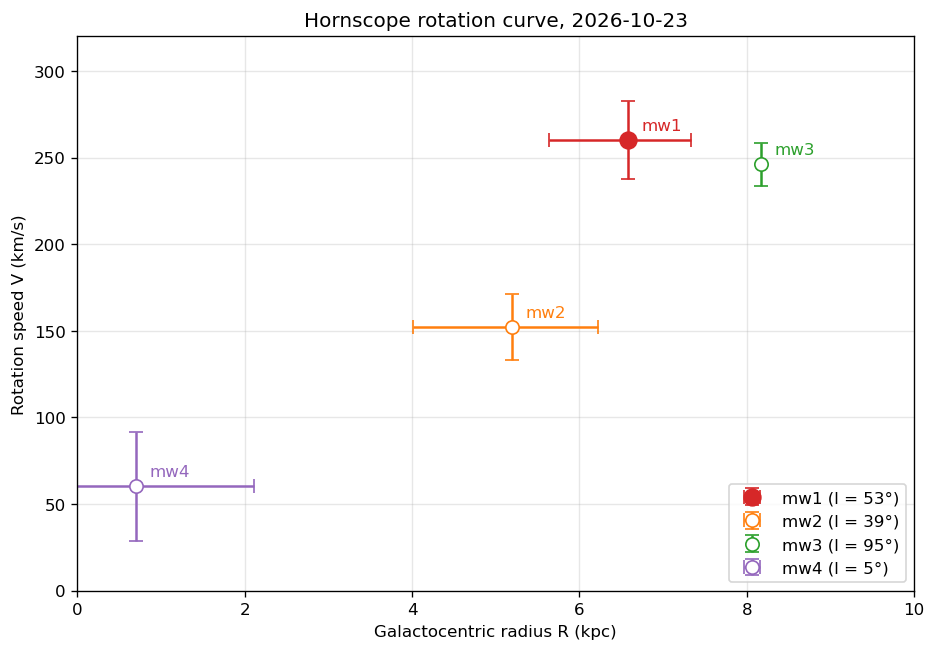
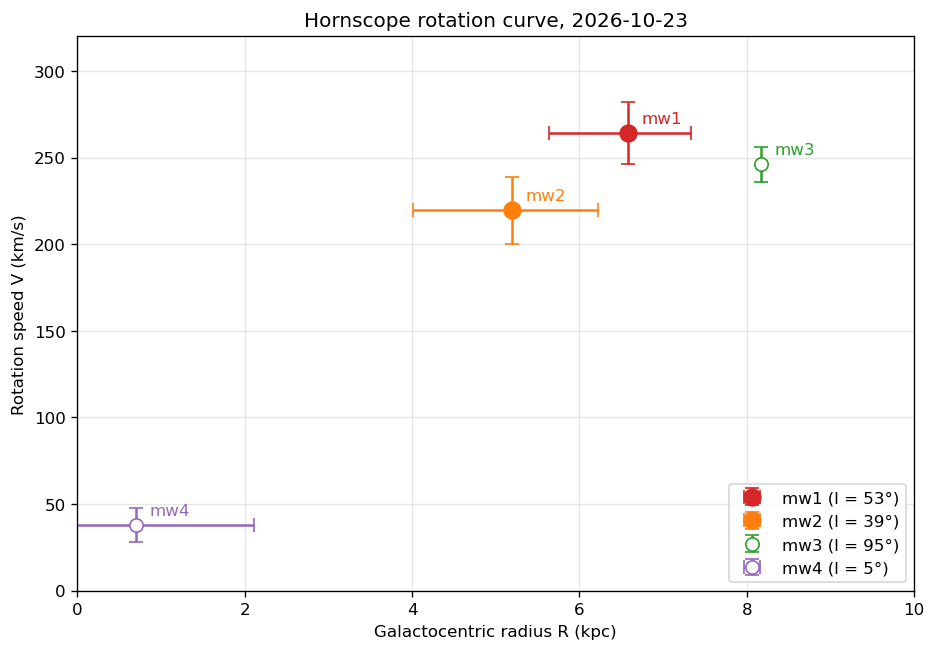
Update S/N and rotation-curve results with corrected noise estimate
Measure noise in a clean band region with a robust estimator. mw2's
tail now reaches the DC-spike gap, giving a usable rotation-curve point
(V = 210-229 km/s at R = 5.2 kpc); mw1 tightens to 256-272 km/s. Add
the per-channel vs smoothed S/N comparison plot.

diff --git a/analysis/README.md b/analysis/README.md
@@ -3,8 +3,9 @@
 | File | What it shows |
 |---|---|
 | `hi_profiles_mw1-4.png` | HI profiles of mw1–mw4 against ground1, in velocity, with a linear baseline removed |
-| `rotation_curve.png` | Tangent-point rotation speeds from mw1–mw4 (filled = valid, hollow = method assumptions not met) |
-| `rotation_curve_mw1_profile.png` | mw1 profile with the tangent-velocity range marked, next to the rotation-curve point |
+| `rotation_curve.png` | Tangent-point rotation speeds from mw1–mw4 (filled = usable, hollow = method assumptions not met) |
+| `snr_comparison_mw1-4.png` | Per-channel vs smoothed S/N for mw1–mw4 |
+| `rotation_curve_mw1_profile.png` | mw1 profile with the tangent-velocity range (inside the DC-spike gap) marked |
 | `expected_HI_profiles.png` | LAB-survey profiles simulated with Virgo for a 20° beam at l = 30°, 80° and 140° |
 | `ground_cal-cold.*` | Early test plot (ground vs cold sky), not used in the results |
 
@@ -12,14 +13,16 @@
 
 - Profiles: target ÷ ground reference, linear baseline fitted at 1419.4–1419.9 and 1420.75–1420.95 MHz, median filter (9 channels) and boxcar smoothing (25 channels). The DC spike (1420.0 ± 0.04 MHz) is masked.
 - Velocities are corrected to the LSR (barycentric correction plus solar motion from Schönrich et al. 2010).
-- Tangent-point method: R = R₀ sin l and V = v_max + V₀ sin l, with R₀ = 8.2 kpc and V₀ = 230 km/s. v_max is taken where the profile tail drops below 3σ. For mw1, the edge falls inside the DC-spike gap, giving v_max = 62–88 km/s.
+- Noise (σ) is measured with a median-based (MAD) estimator in the clean region 1419.4–1419.9 MHz. Virgo's own S/N panel understates the signal about 10×, because its noise estimate includes the DC spike.
+- S/N: mw1 ≈ 13, mw2 ≈ 12, mw3 ≈ 10, mw4 ≈ 14 per 1.2 kHz channel; ≈ 17–41 after smoothing to ~7 km/s (smoothing gains are limited by baseline ripple).
+- Tangent-point method: R = R₀ sin l and V = v_max + V₀ sin l, with R₀ = 8.2 kpc and V₀ = 230 km/s. v_max is taken where the smoothed profile tail drops below 3σ. For mw1 and mw2 the tail is still well above 3σ where the DC-spike gap begins, so the edge lies inside the gap: v_max = 71–88 km/s (mw1) and 65–83 km/s (mw2).
 - Error bars: horizontal = ±10° beam half-width in l; vertical = range of v_max plus an estimated ±10 km/s systematic.
 
 ## Results
 
 | | l | R (kpc) | V (km/s) | Valid? |
 |---|---|---|---|---|
-| mw1 | 53.4° | 6.6 | 247–272 | yes |
-| mw2 | 39.3° | 5.2 | 143–161 | no: b = −10°, misses the tangent gas |
+| mw1 | 53.4° | 6.6 | 256–272 | yes |
+| mw2 | 39.3° | 5.2 | 210–229 | yes, with larger uncertainty: centred at b = −10°, but the ±10° beam reaches the plane |
 | mw3 | 94.7° | 8.2 | ≈ 245 | no: l > 90°, no tangent point (the value is essentially V₀) |
-| mw4 | 4.9° | 0.7 | 39–82 | no: Galactic bar region |
+| mw4 | 4.9° | 0.7 | ≈ 38 | no: Galactic bar region |

diff --git a/README.md b/README.md
@@ -10,14 +10,14 @@ On **2026-10-23** we detected Galactic HI in four 5-minute pointings and derived
 
 | Recording | Galactic l, b | HI peak velocity | Notes |
 |---|---|---|---|
-| mw1 | 53°, +0° | +8 km/s, tail to ~+75 | strong (S/N ≈ 20); gives **V ≈ 250 km/s at R ≈ 6.6 kpc** |
-| mw2 | 39°, −10° | +16 km/s | weak (S/N ≈ 5); 10° off the Galactic plane |
-| mw3 | 95°, +3° | −5 km/s, tail to ~−50 | outer Galaxy; negative velocities as expected |
-| mw4 | 5°, −4° | +13 km/s | toward the Galactic centre; strongest peak |
+| mw1 | 53°, +0° | +8 km/s, tail to the DC gap (~+71–88) | S/N ≈ 13 per channel; gives **V ≈ 256–272 km/s at R ≈ 6.6 kpc** |
+| mw2 | 39°, −10° | +16 km/s, tail to the DC gap (~+65–83) | S/N ≈ 12 per channel; gives **V ≈ 210–229 km/s at R ≈ 5.2 kpc** |
+| mw3 | 95°, +3° | −5 km/s, tail to ~−50 | S/N ≈ 10 per channel; outer Galaxy, negative velocities as expected |
+| mw4 | 5°, −4° | +13 km/s | S/N ≈ 14 per channel; toward the Galactic centre |
 
 ![Rotation curve](analysis/rotation_curve.png)
 
-Only mw1 satisfies the tangent-point method's assumptions (on the plane, 0° < l < 90°, outside the bar). The other points are shown for comparison. See [`analysis/`](analysis/) for details.
+mw1 and mw2 give rotation-curve points (filled). mw2 is centred 10° below the plane, but its ~20° beam still reaches the plane, so it carries a larger uncertainty. mw3 (l > 90°, no tangent point) and mw4 (Galactic bar region) don't satisfy the tangent-point method's assumptions and are shown for comparison only (hollow). For both mw1 and mw2 the tangent edge falls inside the gap left by the SDR's DC spike, which sets the size of the vertical error bars. See [`analysis/`](analysis/) for details.
 
 ## Hardware
 
